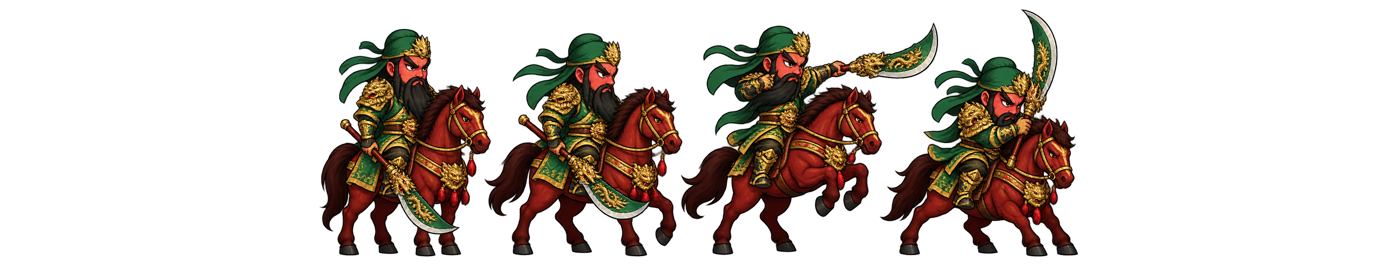
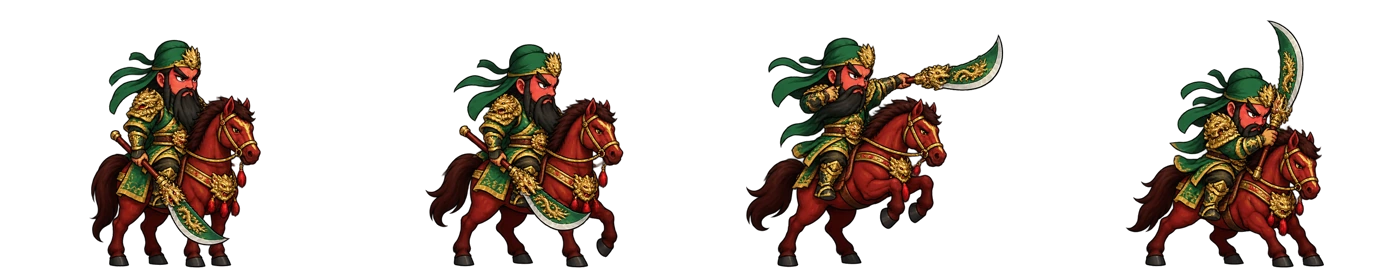
장수 SD 한 벌 1차 10명 연결: 칸 경계에 걸친 SD·일기토 18장을 장면별로 칸 가운데·발끝선에 다시 맞춤 · 유비·마초·관우·장비·조운·황충·강유·방통·목상 제갈량·관평이 새 그림만 쓰게(UNIFIED_SD_IDS) · 옛 전투·일기토 15장 삭제 · 지시서에 검수 결과
Claude-Session: https://claude.ai/code/session_01MpPPA45aaRsErGnvA66if3

diff --git a/packages/web/src/officer-models.ts b/packages/web/src/officer-models.ts
@@ -84,6 +84,10 @@ export const officerManifest:OfficerEntry[]=[
 // 완전 아트 세트가 추가된 장수: 공통 파일 규격(초상·흉상·일기토)을 색인에 연결한다.
 const COMPLETE_ART_IDS=['sun_jian','sun_ce','taishi_ci','cheng_pu','zhou_tai','ling_tong','yuan_shao','dong_zhuo','hua_xiong','gongsun_zan','zhang_jiao','gao_shun','ma_teng','liu_biao','xu_shu','zhang_ren','zhou_cang','jian_yong','mi_zhu','sun_qian','liao_hua','zhang_yi','li_yan','chen_shi','deng_zhi','wen_yang','zhang_chunhua','zhen_shi','wang_shuang','wen_qin','han_dang','zhang_qin','pan_zhang','lu_kang','diaochan','li_jue','guo_si','yuan_shu'] as const;
 for(const id of COMPLETE_ART_IDS){const e=officerManifest.find(x=>x.id===id);if(e){e.bust=`${id}-bust-v1.webp`;e.duel=`officers/${id}-duel-v1.webp`;}}
+// 장수 그림 한 벌(디자인 지시서 docs/design/장수-디자인-긴급지시.md): 병종과 무관한 SD 시트 하나(1400×280, 칸 350×280)와
+// 일기토 하나(1024×256). 이 장수들은 옛 병종별 시트·옛 일기토를 쓰지 않는다(파일도 지웠다). 목상 제갈량의 수레는 그대로 둔다.
+export const UNIFIED_SD_IDS=['liu_bei','ma_chao','guan_yu','zhang_fei','zhao_yun','huang_zhong','jiang_wei','pang_tong','wooden_zhuge','guan_ping'] as const;
+for(const id of UNIFIED_SD_IDS){const e=officerManifest.find(x=>x.id===id);if(!e)continue;const cart=e.battle.cart;e.battle={sd:{sheet:`officers/${id}-sd-v1.webp`,cell:[350,280],rows:1},...(cart?{cart}:{})};e.duel=`officers/${id}-duel-v2.webp`;}
 
 const legacySheets=[
   {id:'officer-battle-sima',url:'officer-battle-sima-v2.webp',rows:4,strictGrid:true,alphaCutoff:8},
@@ -137,9 +141,10 @@ const duelRows:Record<string,{sheet:string;row:number;rows:number}>={
   gao_shou:{sheet:'officers/gao_shou-duel-v1.webp',row:0,rows:1},guo_huai:{sheet:'officers/guo_huai-duel-v1.webp',row:0,rows:1},dai_ling:{sheet:'officers/dai_ling-duel-v1.webp',row:0,rows:1},zhang_zhao:{sheet:'officers/zhang_zhao-duel-v1.webp',row:0,rows:1},zhuge_jin:{sheet:'officers/zhuge_jin-duel-v1.webp',row:0,rows:1},zhang_ba:{sheet:'officers/zhang_ba-duel-v1.webp',row:0,rows:1},cao_xiu:{sheet:'officers/cao_xiu-duel-v1.webp',row:0,rows:1},cao_shuang:{sheet:'officers/cao_shuang-duel-v1.webp',row:0,rows:1},
 };
 for(const id of COMPLETE_ART_IDS)duelRows[id]={sheet:`officers/${id}-duel-v1.webp`,row:0,rows:1};
+for(const id of UNIFIED_SD_IDS)duelRows[id]={sheet:`officers/${id}-duel-v2.webp`,row:0,rows:1};
 export function officerDuelModel(u:OfficerLike){const e=officerEntry(u);return e?duelRows[e.id]:undefined;}
 /** 말을 탄 대결 모델(일기토에서 말 탄 크기·말 흔들림). 나머지 대결 모델은 걸어서 싸운다. */
-const MOUNTED_DUEL=new Set(['ma_chao','lu_bu','xiang_yu','sima_shi','cao_cao','cao_pi','zhao_yun','sun_quan','lu_meng','gongsun_yuan','meng_yan','bi_yan','guan_yu','zhang_liao','zhang_he','xiahou_dun','jiang_wei','xiahou_yuan','xu_huang','cao_ren','liu_bei','cao_rui','yuan_tan','yuan_shang','zhang_ba','cao_xiu','cao_shuang']);
+const MOUNTED_DUEL=new Set(['zhang_fei','wooden_zhuge','ma_chao','lu_bu','xiang_yu','sima_shi','cao_cao','cao_pi','zhao_yun','sun_quan','lu_meng','gongsun_yuan','meng_yan','bi_yan','guan_yu','zhang_liao','zhang_he','xiahou_dun','jiang_wei','xiahou_yuan','xu_huang','cao_ren','liu_bei','cao_rui','yuan_tan','yuan_shang','zhang_ba','cao_xiu','cao_shuang']);
 export function officerDuelMounted(u:OfficerLike){const e=officerEntry(u);return !!e&&!!duelRows[e.id]&&MOUNTED_DUEL.has(e.id);}
 
 /** 병종별 일기토 대표 모델(1024×256, 4프레임). 개별 장수 모델이 없을 때의 전용 폴백 자산. */
@@ -156,7 +161,7 @@ export const DUEL_CLASS_SHEETS=Object.freeze([
 const DUEL_FIT:Record<string,readonly [number,number]>={sima_yi:[236,202],sima_yi_young:[230,203],sima_lang:[236,216],sima_fang:[236,204],cao_zhen:[236,203],xu_chu:[236,216],ma_chao:[236,203],chen_gong:[235,180],zhou_yu:[236,174],lu_bu:[236,193],zhuge_ke:[229,182],cao_pi:[248,206],lu_fan:[229,183],sun_quan:[230,184],huang_zhong:[230,184],sima_shi:[246,228],sun_shao:[229,183],meng_yan:[230,167],bi_yan:[229,179],zhu_ran:[229,177],sima_zhao:[246,236],wang_ling:[229,163],cao_cao:[248,203],yang_ang:[229,184],meng_da:[229,187],wang_ping:[229,183],gao_xiang:[229,177],zhao_yun:[230,175],lu_meng:[230,176],gongsun_yuan:[230,175],xiang_yu:[236,174],lu_xun:[230,169],wei_yan:[230,176],ma_su:[229,174]};
 const DUEL_FOOT=230,DUEL_FOOT_H=182,DUEL_MOUNT_H=180;
 function duelFitStyle(id:string){
-  const f=DUEL_FIT[id];if(!f)return '';
+  const f=(UNIFIED_SD_IDS as readonly string[]).includes(id)?undefined:DUEL_FIT[id];if(!f)return '';
   const [foot,h]=f,k=Math.max(.8,Math.min(1.3,(MOUNTED_DUEL.has(id)?DUEL_MOUNT_H:DUEL_FOOT_H)/h));
   return `;transform-origin:50% ${(foot/256*100).toFixed(1)}%;translate:0 ${((DUEL_FOOT-foot)/256*100).toFixed(2)}%;scale:${k.toFixed(3)}`;
 }

diff --git a/packages/web/test/officer-models.test.ts b/packages/web/test/officer-models.test.ts
@@ -1,6 +1,8 @@
 import {describe,expect,it} from 'vitest';
 import {existsSync,readFileSync} from 'node:fs';
 // 장수 그림 한 벌(디자인 지시서: {id}-sd-v1.webp 1400×280)이 들어온 장수는 병종과 무관하게 그 시트를 쓴다.
+// 새 일기토(-duel-v2)가 들어온 장수는 그 시트를 쓴다(옛 -v1은 지운다).
+const duelFile=(id:string)=>existsSync(new URL(`../public/officers/${id}-duel-v2.webp`,import.meta.url))?`${id}-duel-v2.webp`:`${id}-duel-v1.webp`;
 const hasSd=(id:string)=>existsSync(new URL(`../public/officers/${id}-sd-v1.webp`,import.meta.url));
 import {officerBattleSheet,officerDuelModel,officerDuelModelStyle,officerDuelMounted,officerEntry,officerManifest,officerModelSheets} from '../src/officer-models.ts';
 
@@ -94,22 +96,22 @@ describe('장수별 전투 SD와 대결 모델',()=>{
 
   it('우선순위 장수 19명은 각자 1024×256 전용 대결 시트를 쓴다',()=>{
     for(const id of priorityDuelIds){
-      expect(officerDuelModel({id,name:id})?.sheet,id).toBe(`officers/${id}-duel-v1.webp`);
-      expect(webpSize(new URL(`../public/officers/${id}-duel-v1.webp`,import.meta.url)),id).toEqual([1024,256]);
+      expect(officerDuelModel({id,name:id})?.sheet,id).toBe(`officers/${duelFile(id)}`);
+      expect(webpSize(new URL(`../public/officers/${duelFile(id)}`,import.meta.url)),id).toEqual([1024,256]);
     }
   });
 
   it('2차 장수 20명은 각자 1024×256 전용 대결 시트를 쓴다',()=>{
     for(const id of secondaryDuelIds){
-      expect(officerDuelModel({id,name:id})?.sheet,id).toBe(`officers/${id}-duel-v1.webp`);
-      expect(webpSize(new URL(`../public/officers/${id}-duel-v1.webp`,import.meta.url)),id).toEqual([1024,256]);
+      expect(officerDuelModel({id,name:id})?.sheet,id).toBe(`officers/${duelFile(id)}`);
+      expect(webpSize(new URL(`../public/officers/${duelFile(id)}`,import.meta.url)),id).toEqual([1024,256]);
     }
   });
 
   it('2차 추가 장수 8명도 각자 1024×256 전용 대결 시트를 쓴다',()=>{
     for(const id of secondaryFullIds){
-      expect(officerDuelModel({id,name:id})?.sheet,id).toBe(`officers/${id}-duel-v1.webp`);
-      expect(webpSize(new URL(`../public/officers/${id}-duel-v1.webp`,import.meta.url)),id).toEqual([1024,256]);
+      expect(officerDuelModel({id,name:id})?.sheet,id).toBe(`officers/${duelFile(id)}`);
+      expect(webpSize(new URL(`../public/officers/${duelFile(id)}`,import.meta.url)),id).toEqual([1024,256]);
     }
   });
 
@@ -134,6 +136,8 @@ describe('장수별 전투 SD와 대결 모델',()=>{
   it('이름있는 장수 28명은 병종별 표준 SD 시트를 쓴다',()=>{
     for(const [id,unitClass] of namedBattle){
       const model=officerBattleSheet({id,name:id,unitClass})!;
+      // 장수 그림 한 벌(SD)이 들어온 장수는 그 시트 하나만 쓴다(옛 병종별 시트는 지웠다).
+      if(hasSd(id)){expect(model.action.sheet,id).toBe(`officers/${id}-sd-v1.webp`);expect(model.action.cell,id).toEqual([350,280]);continue;}
       expect(model.action.sheet,id).toBe(`officers/${id}-battle-${unitClass}-v1.webp`);
       expect(model.action.cell,id).toEqual([280,224]);
       expect(webpSize(new URL(`../public/officers/${id}-battle-${unitClass}-v1.webp`,import.meta.url)),id).toEqual([1120,224]);

diff --git a/docs/design/장수-디자인-긴급지시.md b/docs/design/장수-디자인-긴급지시.md
@@ -84,6 +84,15 @@
   - 글자나 한자가 들어감.
   - 64px에서 얼굴과 무기를 알아볼 수 없음.
 
+### 1차 납품(2026-10-13) 검수 결과
+
+- 10명(유비·마초·관우·장비·조운·황충·강유·방통·목상 제갈량·관평)의 SD·일기토가 들어왔다.
+- **마초·여포 일기토를 뺀 18장이 칸 정렬 불량**이었다. 4장면을 칸 위치와 상관없이 가운데에 약 200px 간격으로 몰아 그려, 장면이 칸 경계(350·700·1050 / 256·512·768)에 걸쳤다. 게임에서는 장면이 잘리고 옆 장면 조각이 보인다.
+- 코드 쪽에서 장면을 떼어 각 칸 가운데·발끝선(SD 268px, 일기토 230px)에 다시 맞춰 고쳤다.
+- 같은 커밋에서 이 10명의 옛 전투 시트·옛 일기토 15장을 지웠다.
+- **다음 납품부터 반드시**: 장면 하나는 자기 칸 안에서 가운데 정렬한다. 칸 경계 좌우 1px 열에 불투명 픽셀이 없어야 한다(검수에서 자동으로 잰다).
+- 새 장수는 코드의 `UNIFIED_SD_IDS`(src/officer-models.ts)에 id를 더하면 연결된다. 그림 파일만 올려도 되고, 연결과 옛 파일 삭제는 우리 쪽에서 한다.
+
 ## 7. 우리 쪽(코드)에서 할 일 — 그림 작업자는 참고만
 
 1. 장수 그림을 `{id}-sd-v1` 한 장으로 찾게 바꾼다. 병종별 시트를 찾는 방식과, 옛 묶음 시트를 예비로 쓰는 연결(legacy)은 없앤다.
